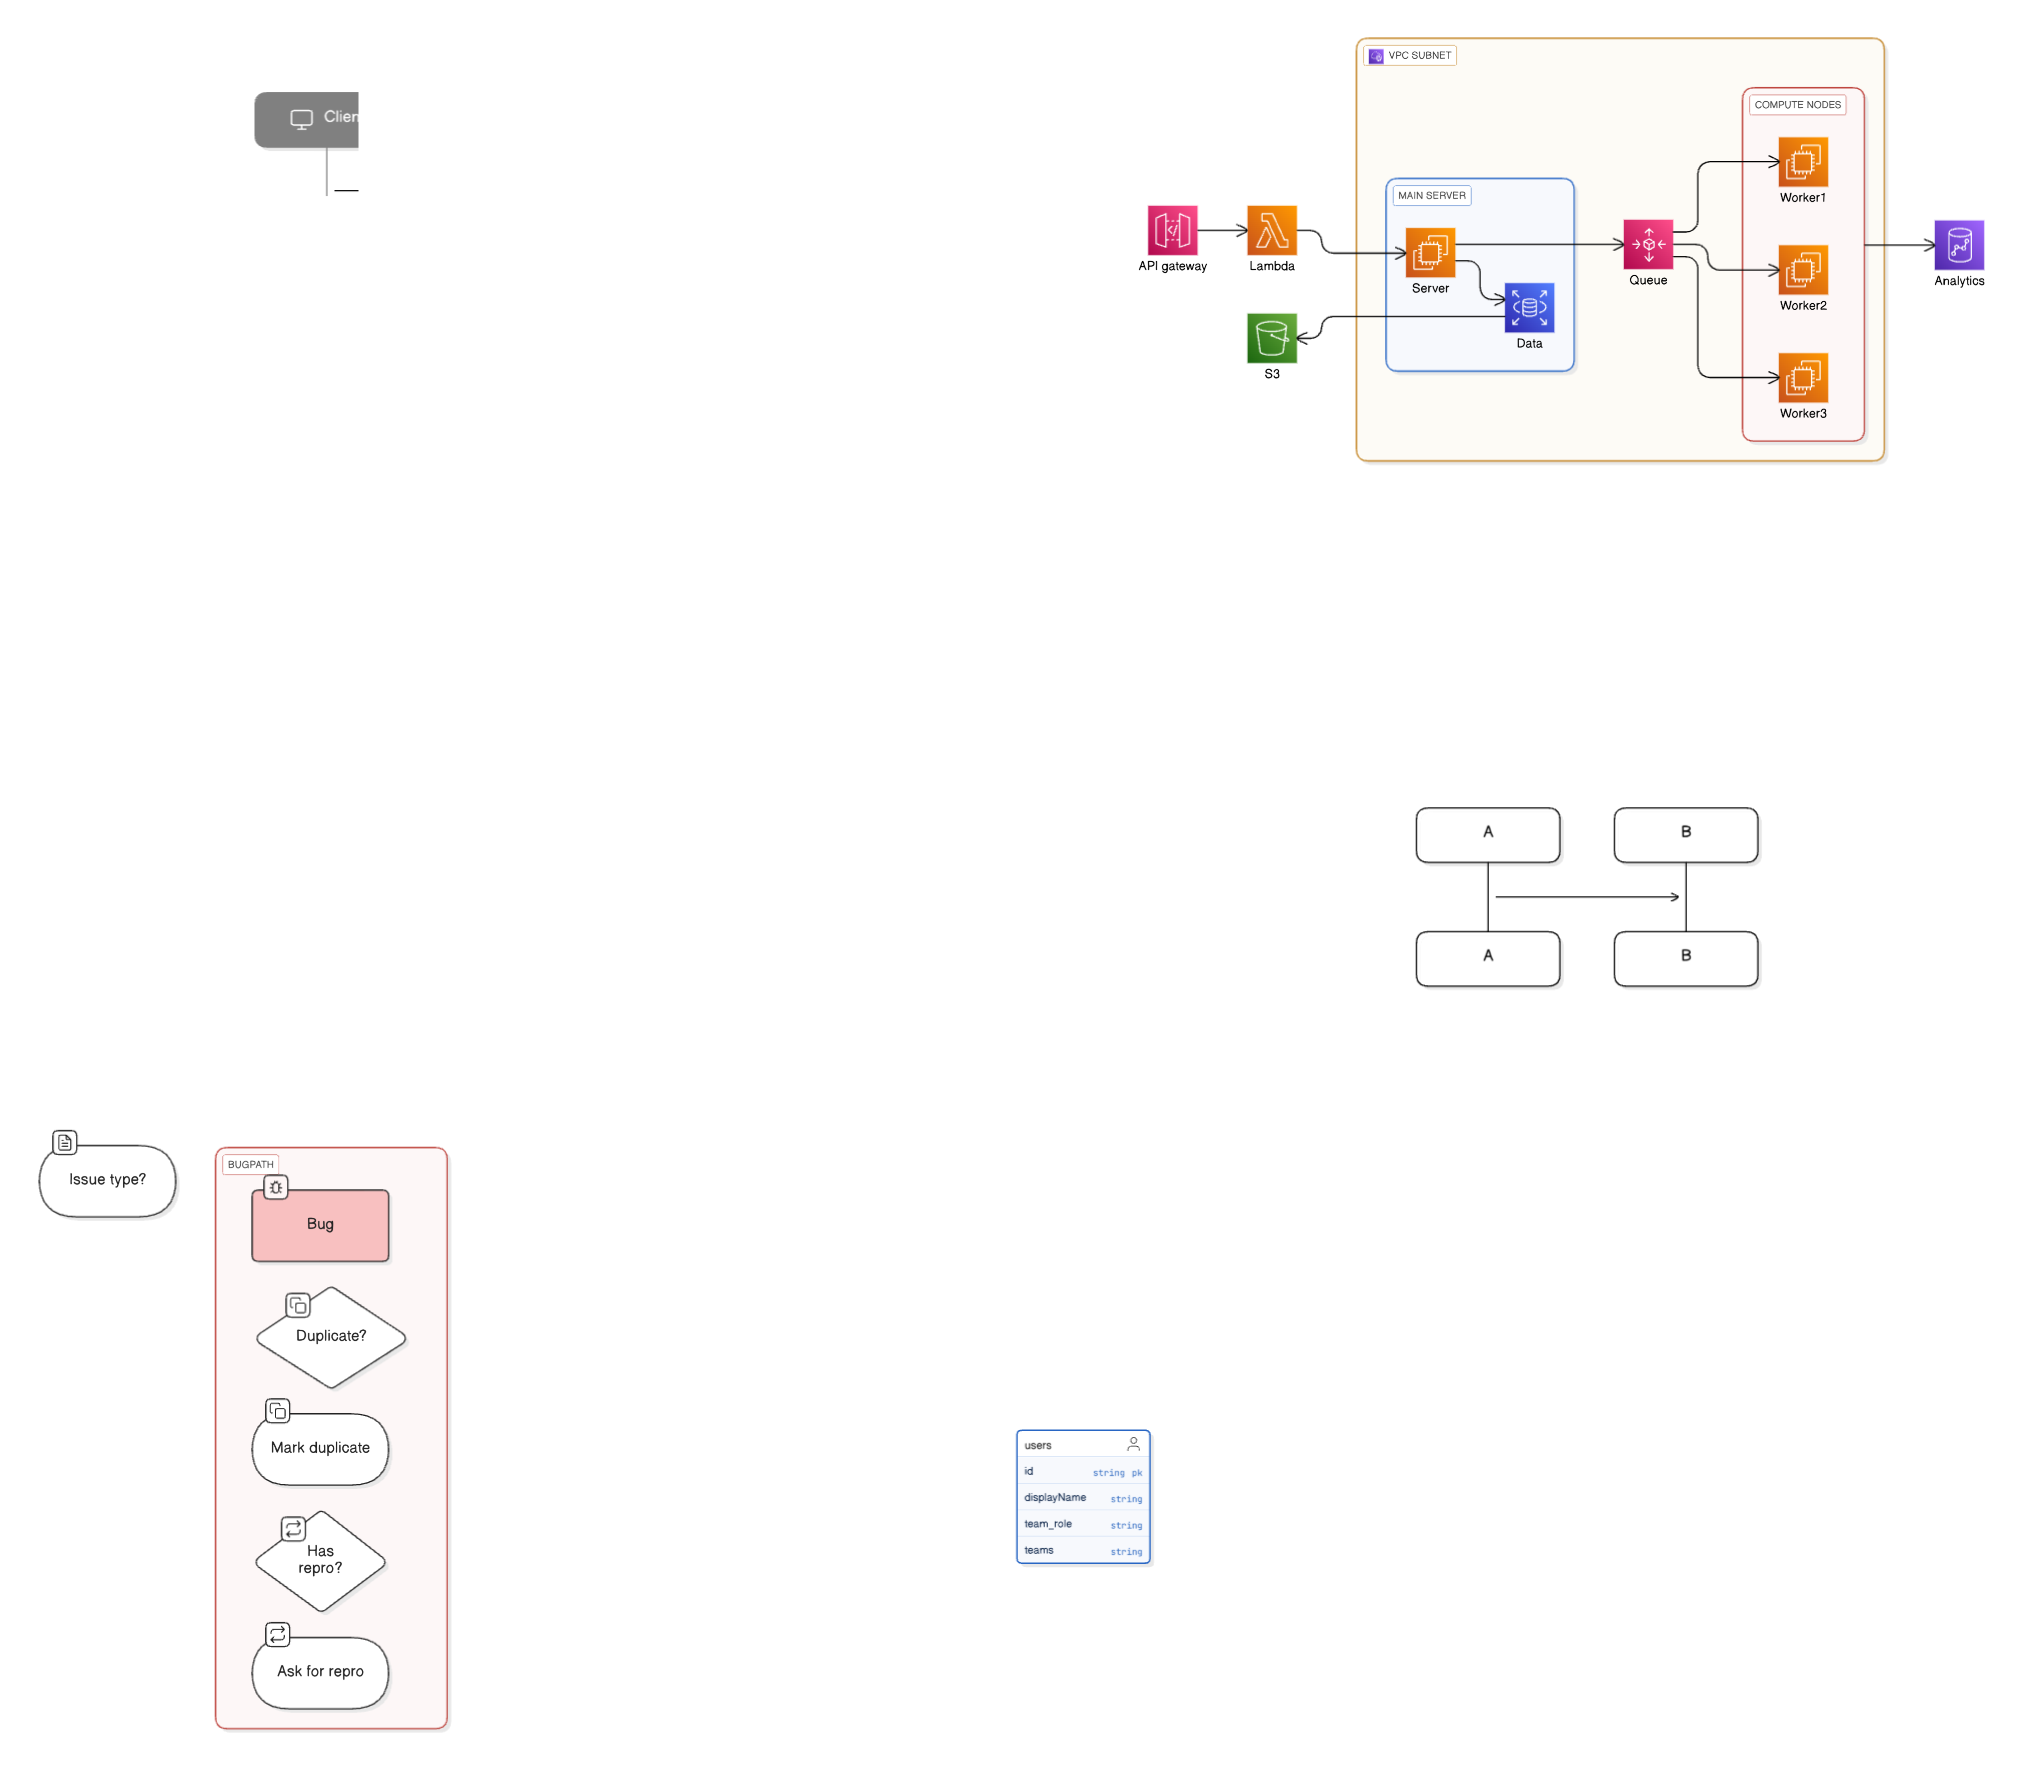
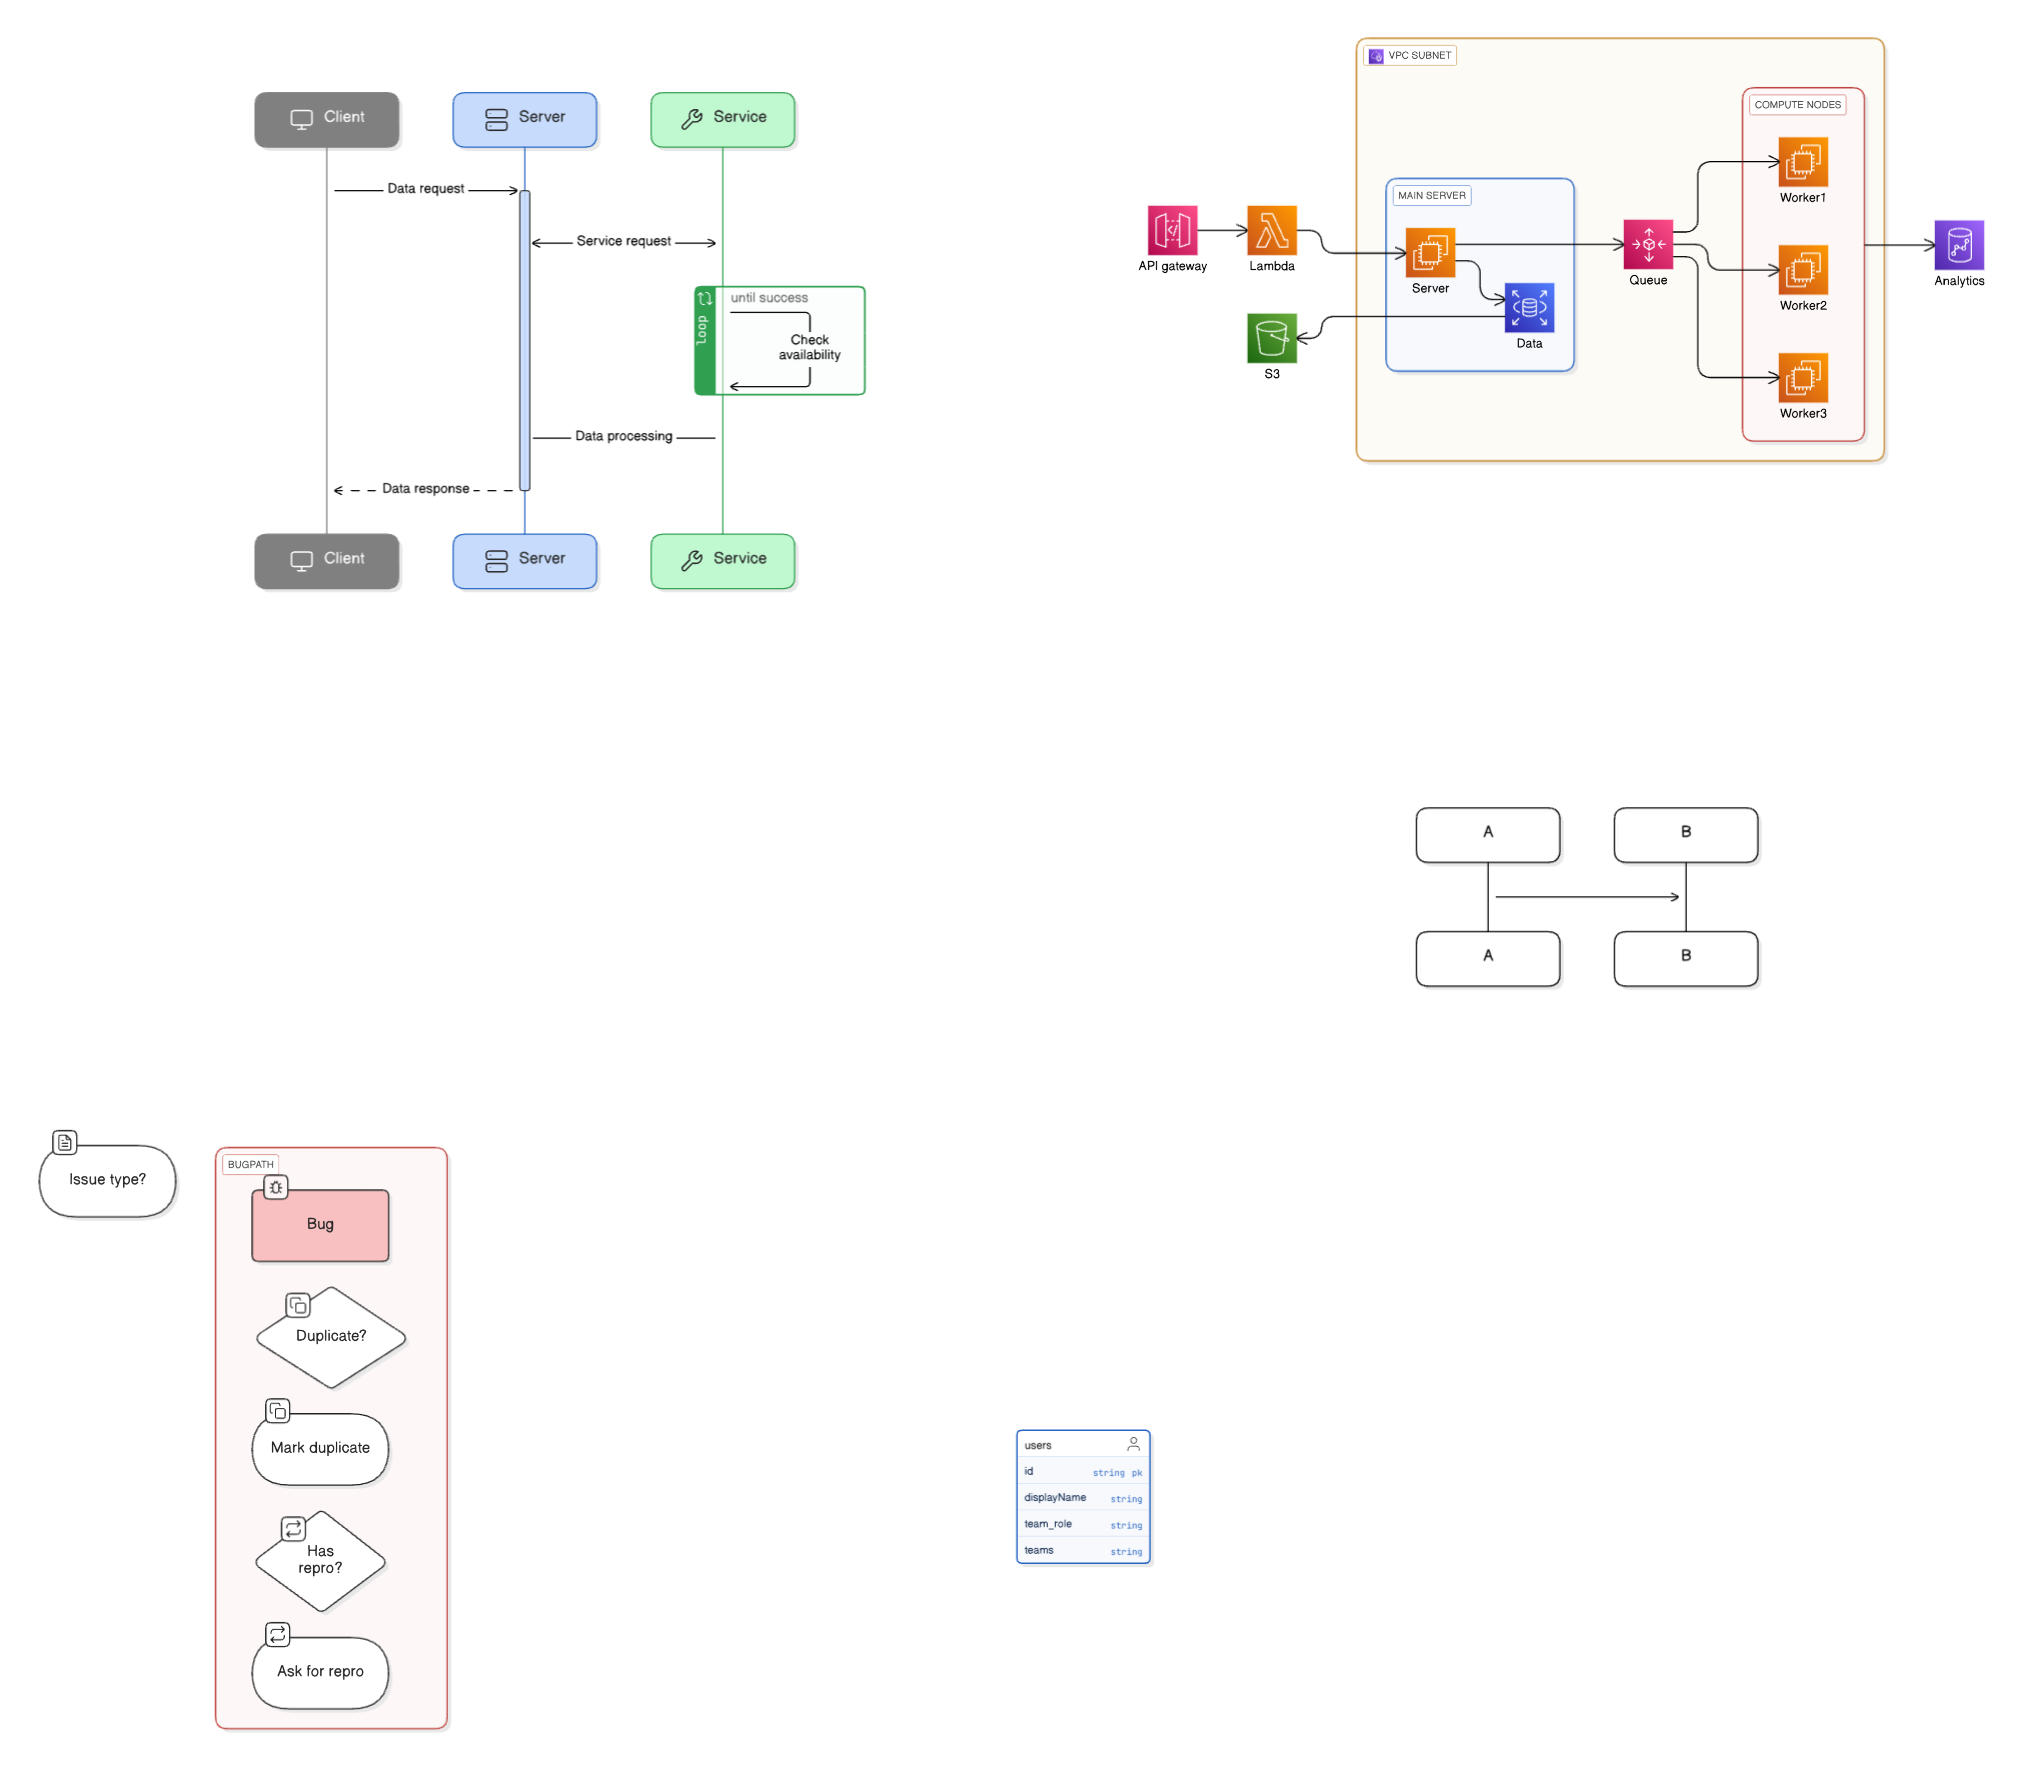
Update README.md from Eraser

Changed region(s): [[0.1239, 0.0309, 0.4027, 0.3395], [0.3407, 0.1543, 0.4336, 0.2469], [0.1858, 0.2469, 0.2168, 0.2778]]

diff --git a/README.md b/README.md
@@ -9,8 +9,6 @@ It uses a ML-based recommendation system to that generates recommendations. It u
 
 loop asdf
 
-![Testing something](/.eraser/zKWIpHpQV2AM8f4Tmyk4___SOIiXh9tGmdtfE1u0fwNIY8EzVm1___---figure---4hhItcHFGve1Pv62G4z3I---figure---H7GieXmXpwTe-n0KI8WRdw.png "Testing something")
-
 
 
 ## Architecture
@@ -26,7 +24,7 @@ More things!
 <!-- eraser-additional-content -->
 ## Diagrams
 <!-- eraser-additional-files -->
-<a href="/README-sequence-diagram-1.eraserdiagram" data-element-id="Y548LCtNDTtCkujK2lb6w"><img src="/.eraser/zKWIpHpQV2AM8f4Tmyk4___SOIiXh9tGmdtfE1u0fwNIY8EzVm1___---diagram----23ac347cdeea54b617e182a1bb4f8838.png" alt="" data-element-id="Y548LCtNDTtCkujK2lb6w" /></a>
+<a href="/README-sequence-diagram-1.eraserdiagram" data-element-id="Y548LCtNDTtCkujK2lb6w"><img src="/.eraser/zKWIpHpQV2AM8f4Tmyk4___SOIiXh9tGmdtfE1u0fwNIY8EzVm1___---diagram----99ca8bdde34edfa926623200688ea537.png" alt="" data-element-id="Y548LCtNDTtCkujK2lb6w" /></a>
 <a href="/README-cloud-architecture-2.eraserdiagram" data-element-id="yIA-I8o-A5xGjqJSy7bza"><img src="/.eraser/zKWIpHpQV2AM8f4Tmyk4___SOIiXh9tGmdtfE1u0fwNIY8EzVm1___---diagram----25b1d12491e1a5c7ca90211f6a9e9ea4.png" alt="" data-element-id="yIA-I8o-A5xGjqJSy7bza" /></a>
 <a href="/README-sequence-diagram-3.eraserdiagram" data-element-id="R8tVm6KsSpHnIhK88IRbW"><img src="/.eraser/zKWIpHpQV2AM8f4Tmyk4___SOIiXh9tGmdtfE1u0fwNIY8EzVm1___---diagram----fa73c792c8239e904eeb67fc4434ca85.png" alt="" data-element-id="R8tVm6KsSpHnIhK88IRbW" /></a>
 <a href="/README-flowchart-4.eraserdiagram" data-element-id="mMqvSQESWaWpZbAFBpA2i"><img src="/.eraser/zKWIpHpQV2AM8f4Tmyk4___SOIiXh9tGmdtfE1u0fwNIY8EzVm1___---diagram----af2d5f91d706ccfc33f2f8688656edad.png" alt="" data-element-id="mMqvSQESWaWpZbAFBpA2i" /></a>
